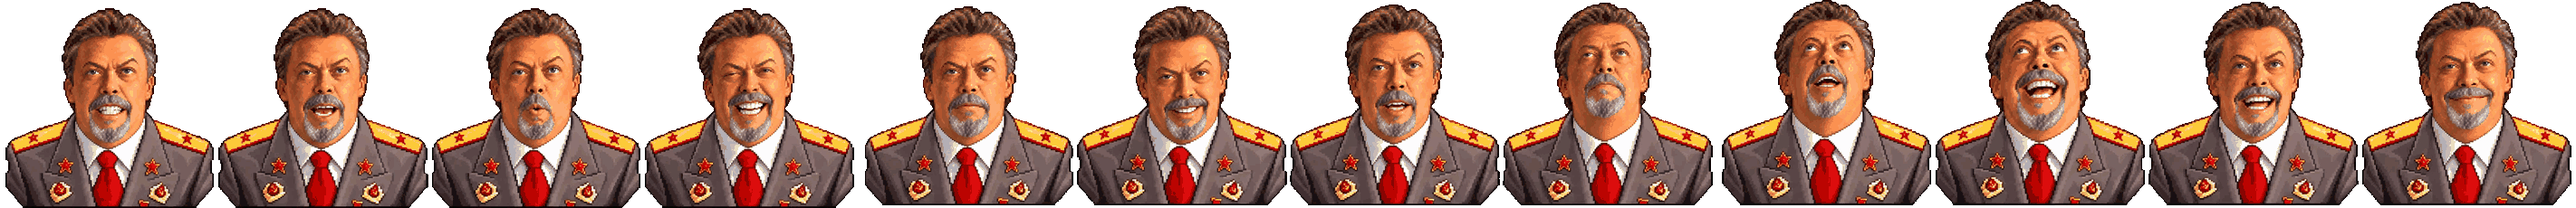
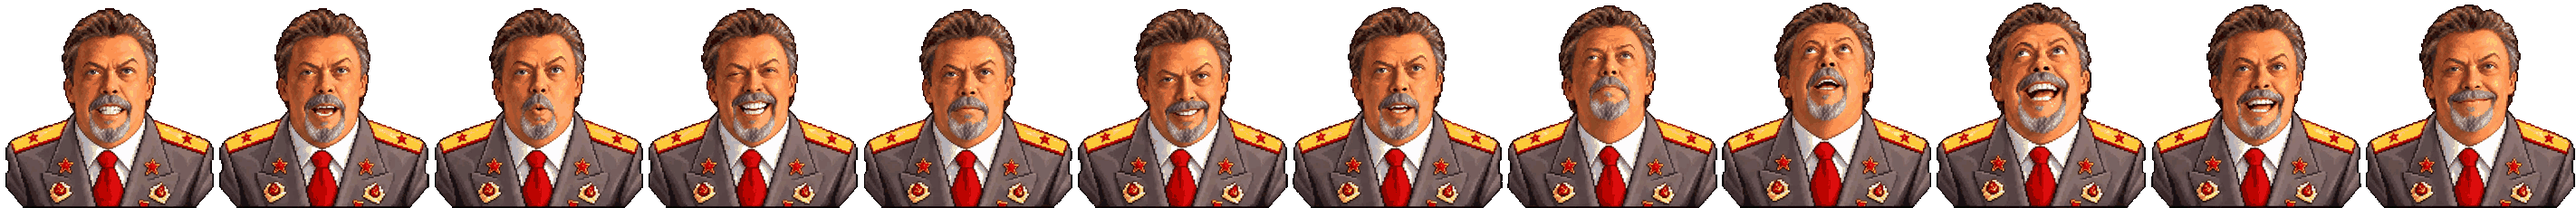
Cherdenko: frames lined up on his shoulders, and a half step between poses
Nula's sheet rows were cut a few pixels apart, so his shoulders hopped up to 7 px whenever a frame changed. Each frame is now shifted to line up on his torso (offsets found by Codex, same 64 colours), and every pose change shows one frame halfway between the two first, so his face eases instead of snapping.

On the home desk kiosk's Pi Zero W, beside its live display, it misses as many 41.7 ms deadlines as before (about 30 of 144, the worst 80-89 ms rather than 112-117), and the import grows by 2-3 s for the twelve halfway frames.

Changed region(s): [[0.0619, 0.0, 1.0, 1.0]]

diff --git a/catalog/transitions/cherdenko.py b/catalog/transitions/cherdenko.py
@@ -23,7 +23,7 @@ RED, ORANGE, GOLD, INK, PAPER = (204, 26, 26), (255, 120, 20), (255, 206, 40), (
 # Nula's pixel art of Premier Cherdenko: a 4x3 sheet of him speaking, and him looking up, mouth open,
 # shouting SPACE. Reduced to sprites in kiosk/art/: twelve frames 237x230 cut to one shared box so he doesn't jump between
 # them (cherdenko-talk.png, in a row), and the shout, 255x230 (cherdenko-space.png); stray edge pixels taken off, and 64
-# colours shared by both. Drawn at 2x. The character is Red Alert 3's, played by Tim Curry: a fan tribute, for our kiosks.
+# colours shared by both, and each frame shifted to line up on his shoulders, so his body doesn't hop. Drawn at 2x. The character is Red Alert 3's, played by Tim Curry: a fan tribute, for our kiosks.
 TALK_ART = Image.open(os.path.join(kit.HERE, "art", "cherdenko-talk.png")).convert("RGBA")
 SHOUT_ART = Image.open(os.path.join(kit.HERE, "art", "cherdenko-space.png")).convert("RGBA")
 FRAME_W = 237
@@ -101,7 +101,11 @@ def region(make, box):
     return packed(img.crop(box), box[0], box[1])
 
 
-POSES = {i: packed(pose(TALK[i]), FIG_X, FIG_Y) for i in sorted(set(SPEAKING + LOOKING))}   # only the ones he uses
+SEEN = {i: pose(TALK[i]) for i in sorted(set(SPEAKING + LOOKING))}   # only the ones he uses
+POSES = {i: packed(img, FIG_X, FIG_Y) for i, img in SEEN.items()}
+ORDER = SPEAKING + LOOKING
+BLENDS = {(a, b): packed(Image.blend(SEEN[a], SEEN[b], .5), FIG_X, FIG_Y) for a, b in zip(ORDER, ORDER[1:])}
+# halfway between each pose and the next, shown for one frame as he changes, so his face eases rather than snaps
 SHOUTING = packed(pose(SHOUT_ART), FIG_X, FIG_Y)
 SPEECH = [region(lambda img, n=n: bubble(img, n), (TAIL[2][0] - 8, BUBBLE[1] - 8, BUBBLE[2] + 16, TAIL[2][1] + 8))
           for n in range(1, len(LINES) + 1)]
@@ -180,7 +184,7 @@ def frames(c, count):
     n = max(1, count)
     at = lambda f: round(f * n)
     drop, rise, talk, shout_at, shake_end, launch = at(.06), at(.13), at(.62), at(.66), at(.72), n
-    scene, shown, lifted = None, POSES[SPEAKING[0]], 0
+    scene, shown, easing, lifted = None, SPEAKING[0], False, 0
     for i in range(n):
         if i < drop:   # the night drops down over the old page, a band a frame
             c.reveal(0, 0, WIDTH, math.ceil(HEIGHT * (i + 1) / max(1, drop)), src=BACK)
@@ -198,12 +202,15 @@ def frames(c, count):
                 if i == rise + round(line * .4 * (talk - rise) / max(1, len(SPEECH) - 1)):
                     put(c, part)
             if k > LOOK_UP:   # he looks up, then grins at the sky
-                frame = POSES[LOOKING[min(len(LOOKING) - 1, int((k - LOOK_UP) / (1 - LOOK_UP) * len(LOOKING)))]]
+                want = LOOKING[min(len(LOOKING) - 1, int((k - LOOK_UP) / (1 - LOOK_UP) * len(LOOKING)))]
             else:
-                frame = POSES[SPEAKING[min(len(SPEAKING) - 1, int(k / LOOK_UP * len(SPEAKING)))]]
-            if frame is not shown:   # each of Nula's frames is drawn whole, so all of him changes, once a hold. Nothing
-                put(c, frame, screen=True); shown = frame   # wipes or captures him before the shout replaces him,
-                                                            # so the screen alone will do: ~460 copies, not ~920
+                want = SPEAKING[min(len(SPEAKING) - 1, int(k / LOOK_UP * len(SPEAKING)))]
+            if want != shown:   # each of Nula's frames is drawn whole, once a hold, to the screen alone: nothing wipes
+                                # or captures him before the shout replaces him, so ~460 copies, not ~920
+                if (shown, want) in BLENDS and not easing:   # a frame halfway first
+                    put(c, BLENDS[shown, want], screen=True); easing = True
+                else:
+                    put(c, POSES[want], screen=True); shown, easing = want, False
         elif i < shout_at:   # he looks up and shouts: the pose in two halves, then SPACE!!!!
             j = i - talk
             if j == 0:
